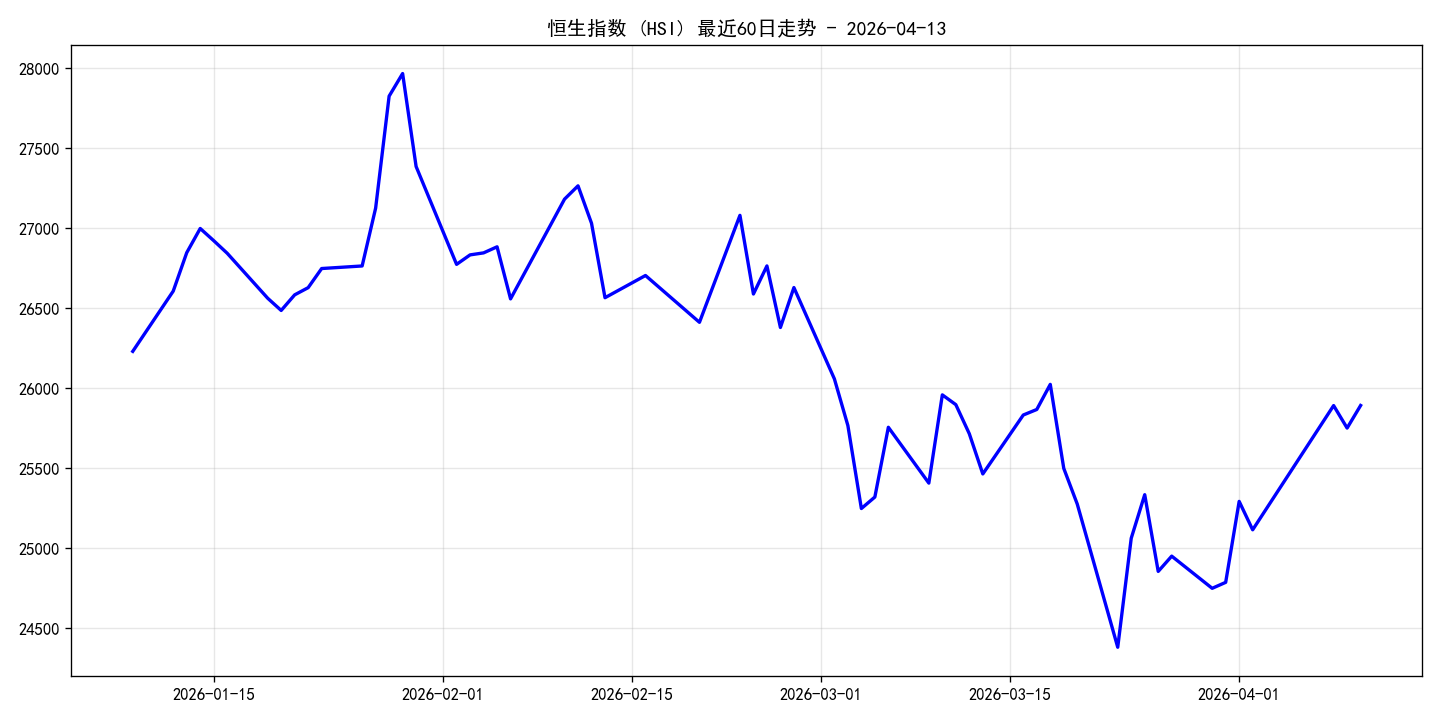
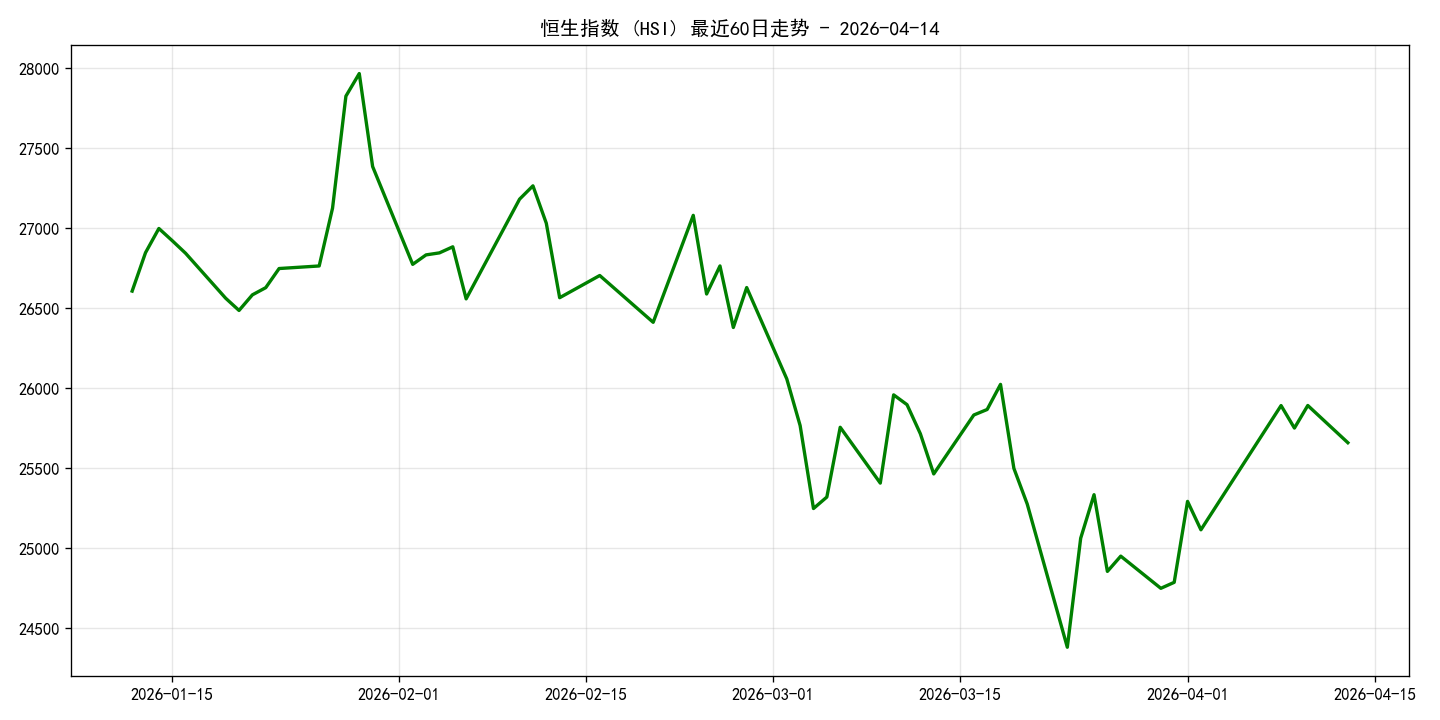
Auto: Daily HK-share Recap Update 2026-04-14

diff --git a/hkshare_recap.html b/hkshare_recap.html
@@ -3,7 +3,7 @@
 <head>
     <meta charset="UTF-8">
     <meta name="viewport" content="width=device-width, initial-scale=1.0">
-    <title>港股收盘复盘 - 2026-04-13</title>
+    <title>港股收盘复盘 - 2026-04-14</title>
     <style>
         body { font-family: sans-serif; padding: 20px; line-height: 1.6; max-width: 800px; margin: 0 auto; background: #f9f9f9; }
         .card { background: white; padding: 20px; border-radius: 12px; shadow: 0 4px 10px rgba(0,0,0,0.1); }
@@ -15,12 +15,12 @@
 </head>
 <body>
     <div class="card">
-        <h1>港股收盘复盘 (2026-04-13)</h1>
+        <h1>港股收盘复盘 (2026-04-14)</h1>
         <div class="stat">
-            恒生指数 (HSI)：25893.54 
-            <span class="up">(+0.55%)</span>
+            恒生指数 (HSI)：25660.85 
+            <span class="down">(-0.90%)</span>
         </div>
-        <p>今日港股市场呈现<strong>上涨</strong>态势。恒指当前点位为 25893.54 点。</p>
+        <p>今日港股市场呈现<strong>下跌</strong>态势。恒指当前点位为 25660.85 点。</p>
         <img src="hkshare_recap_trend.png" alt="Trend">
         <hr>
         <p style="text-align: center; color: #666;">自动生成于收盘后一小时 | 投研助手 Q</p>
